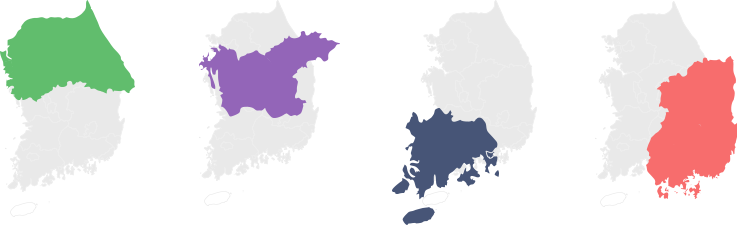
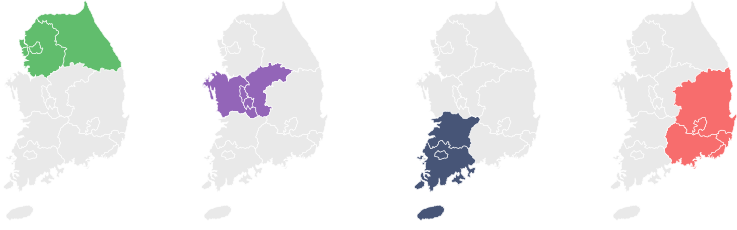
FAQ를 지우고 지도 이미지를 바꾸며, 에디터에서 이미지 넘침을 방지합니다

diff --git a/app/assets/stylesheets/tinymce_content.scss b/app/assets/stylesheets/tinymce_content.scss
@@ -1,0 +1,3 @@
+img {
+  max-width: 100%;
+}

diff --git a/config/initializers/assets.rb b/config/initializers/assets.rb
@@ -14,3 +14,4 @@ Rails.application.config.assets.paths << Rails.root.join('app', 'assets', 'fonts
 # folder are already added.
 # Rails.application.config.assets.precompile += %w( admin.js admin.css )
 
+Rails.application.config.assets.precompile += %w( tinymce_content.css )
